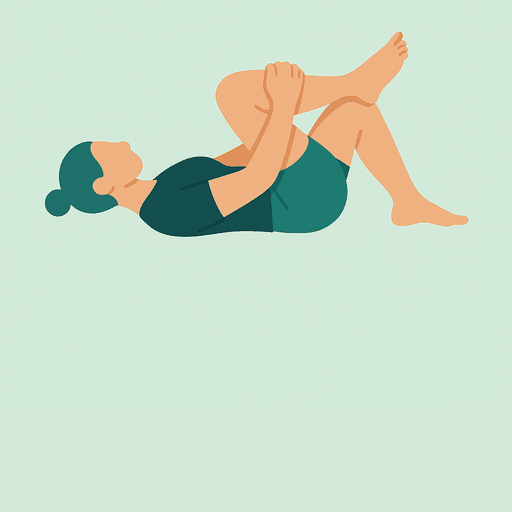
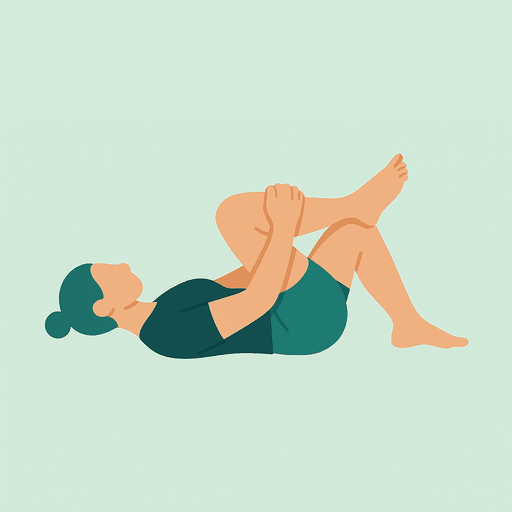
Update routines, center illustrations, fix SW update caching
- Extend Full Body 15 to 17 exercises (~15 min)
- Add Feierabend routine and random Zufallsmix (5 random exercises)
- Replace approx sign with ~ in duration labels
- Top-align exercise card content
- Vertically center motifs in 16 exercise illustrations
- Bypass HTTP cache on service worker install, bump cache to v16

Changed region(s): [[0.0625, 0.0625, 0.9375, 0.7188]]

diff --git a/assets/icons.js b/assets/icons.js
@@ -10,6 +10,8 @@ const ICONS = {
   leaf: `<svg class="icon" aria-hidden="true" xmlns="http://www.w3.org/2000/svg" viewBox="0 0 24 24" fill="none" stroke="currentColor" stroke-width="2" stroke-linecap="round" stroke-linejoin="round"><path d="M11 20A7 7 0 0 1 9.8 6.1C15.5 5 17 4.48 19 2c1 2 2 4.18 2 8 0 5.5-4.78 10-10 10Z"/><path d="M2 21c0-3 1.85-5.36 5.08-6C9.5 14.52 12 13 13 12"/></svg>`,
   expand: `<svg class="icon" aria-hidden="true" xmlns="http://www.w3.org/2000/svg" viewBox="0 0 24 24" fill="none" stroke="currentColor" stroke-width="2" stroke-linecap="round" stroke-linejoin="round"><path d="m15 15 6 6"/><path d="m15 9 6-6"/><path d="M21 16v5h-5"/><path d="M21 8V3h-5"/><path d="M3 16v5h5"/><path d="m3 21 6-6"/><path d="M3 8V3h5"/><path d="M9 9 3 3"/></svg>`,
   dumbbell: `<svg class="icon" aria-hidden="true" xmlns="http://www.w3.org/2000/svg" viewBox="0 0 24 24" fill="none" stroke="currentColor" stroke-width="2" stroke-linecap="round" stroke-linejoin="round"><path d="M17.596 12.768a2 2 0 1 0 2.829-2.829l-1.768-1.767a2 2 0 0 0 2.828-2.829l-2.828-2.828a2 2 0 0 0-2.829 2.828l-1.767-1.768a2 2 0 1 0-2.829 2.829z"/><path d="m2.5 21.5 1.4-1.4"/><path d="m20.1 3.9 1.4-1.4"/><path d="M5.343 21.485a2 2 0 1 0 2.829-2.828l1.767 1.768a2 2 0 1 0 2.829-2.829l-6.364-6.364a2 2 0 1 0-2.829 2.829l1.768 1.767a2 2 0 0 0-2.828 2.829z"/><path d="m9.6 14.4 4.8-4.8"/></svg>`,
+  moon: `<svg class="icon" aria-hidden="true" xmlns="http://www.w3.org/2000/svg" viewBox="0 0 24 24" fill="none" stroke="currentColor" stroke-width="2" stroke-linecap="round" stroke-linejoin="round"><path d="M12 3a6 6 0 0 0 9 9 9 9 0 1 1-9-9Z"/></svg>`,
+  shuffle: `<svg class="icon" aria-hidden="true" xmlns="http://www.w3.org/2000/svg" viewBox="0 0 24 24" fill="none" stroke="currentColor" stroke-width="2" stroke-linecap="round" stroke-linejoin="round"><path d="m18 14 4 4-4 4"/><path d="m18 2 4 4-4 4"/><path d="M2 18h1.973a4 4 0 0 0 3.3-1.7l5.454-8.6a4 4 0 0 1 3.3-1.7H22"/><path d="M2 6h1.972a4 4 0 0 1 3.6 2.2"/><path d="M22 18h-6.041a4 4 0 0 1-3.3-1.8l-.359-.45"/></svg>`,
   star: `<svg class="icon" aria-hidden="true" xmlns="http://www.w3.org/2000/svg" viewBox="0 0 24 24" fill="none" stroke="currentColor" stroke-width="2" stroke-linecap="round" stroke-linejoin="round"><path d="M11.525 2.295a.53.53 0 0 1 .95 0l2.31 4.679a2.123 2.123 0 0 0 1.595 1.16l5.166.756a.53.53 0 0 1 .294.904l-3.736 3.638a2.123 2.123 0 0 0-.611 1.878l.882 5.14a.53.53 0 0 1-.771.56l-4.618-2.428a2.122 2.122 0 0 0-1.973 0L6.396 21.01a.53.53 0 0 1-.77-.56l.881-5.139a2.122 2.122 0 0 0-.611-1.879L2.16 9.795a.53.53 0 0 1 .294-.906l5.165-.755a2.122 2.122 0 0 0 1.597-1.16z"/></svg>`,
   flame: `<svg class="icon" aria-hidden="true" xmlns="http://www.w3.org/2000/svg" viewBox="0 0 24 24" fill="none" stroke="currentColor" stroke-width="2" stroke-linecap="round" stroke-linejoin="round"><path d="M12 3q1 4 4 6.5t3 5.5a1 1 0 0 1-14 0 5 5 0 0 1 1-3 1 1 0 0 0 5 0c0-2-1.5-3-1.5-5q0-2 2.5-4"/></svg>`,
   sprout: `<svg class="icon" aria-hidden="true" xmlns="http://www.w3.org/2000/svg" viewBox="0 0 24 24" fill="none" stroke="currentColor" stroke-width="2" stroke-linecap="round" stroke-linejoin="round"><path d="M14 9.536V7a4 4 0 0 1 4-4h1.5a.5.5 0 0 1 .5.5V5a4 4 0 0 1-4 4 4 4 0 0 0-4 4c0 2 1 3 1 5a5 5 0 0 1-1 3"/><path d="M4 9a5 5 0 0 1 8 4 5 5 0 0 1-8-4"/><path d="M5 21h14"/></svg>`,

diff --git a/assets/app.js b/assets/app.js
@@ -112,8 +112,22 @@
 
   /* ===== Home rendern ===== */
   function routineDuration(routine) {
-    const steps = routine.items.reduce((n, id) => n + (exerciseById[id]?.sides ? 2 : 1), 0);
+    // Zufallsroutine: Übungen stehen noch nicht fest, mit ~1.5 Schritten
+    // pro Übung schätzen (Links/Rechts-Übungen zählen doppelt).
+    const steps = routine.random
+      ? Math.round(routine.random * 1.5)
+      : routine.items.reduce((n, id) => n + (exerciseById[id]?.sides ? 2 : 1), 0);
     return Math.round((steps * routine.secs) / 60);
+  }
+
+  /* n zufällige Übungs-IDs ziehen (Fisher-Yates) */
+  function randomExercises(n) {
+    const ids = EXERCISES.map((ex) => ex.id);
+    for (let i = ids.length - 1; i > 0; i--) {
+      const j = Math.floor(Math.random() * (i + 1));
+      [ids[i], ids[j]] = [ids[j], ids[i]];
+    }
+    return ids.slice(0, n);
   }
 
   function routineCard(routine, { deletable = false } = {}) {
@@ -123,8 +137,10 @@
       <span class="routine-icon">${ICONS[routine.icon] || ICONS.star}</span>
       <span class="card-title">${esc(routine.name)}</span>
       <span class="card-desc">${routine.blurb ? esc(routine.blurb) : `${routine.items.length} Übungen, selbst zusammengestellt.`}</span>
-      <span class="meta">≈ ${routineDuration(routine)} Min · ${routine.items.length} Übungen</span>`;
-    card.addEventListener('click', () => startRoutine(routine));
+      <span class="meta">~ ${routineDuration(routine)} Min · ${routine.random || routine.items.length} Übungen</span>`;
+    card.addEventListener('click', () => startRoutine(
+      routine.random ? { ...routine, items: randomExercises(routine.random) } : routine
+    ));
     if (!deletable) return card;
 
     // Löschen-Button als Geschwister, nicht als Kind des Karten-Buttons
@@ -499,7 +515,7 @@
     const steps = builderSelection.reduce((n, id) => n + (exerciseById[id]?.sides ? 2 : 1), 0);
     const mins = Math.round((steps * secs) / 60);
     $('#builder-summary').textContent = builderSelection.length
-      ? `${builderSelection.length} Übungen · ≈ ${mins} Min`
+      ? `${builderSelection.length} Übungen · ~ ${mins} Min`
       : 'Keine Übung ausgewählt';
     $('#btn-builder-save').disabled = builderSelection.length === 0;
   }

diff --git a/assets/data.js b/assets/data.js
@@ -72,7 +72,7 @@ const ROUTINES = [
     items: ['shoulder-roll', 'neck-side', 'neck-front', 'shoulder-cross', 'triceps', 'wrist', 'chest-opener', 'side-bend'] },
   { id: 'fullbody15', icon: 'personStanding', name: 'Full Body 15', secs: 35,
     blurb: 'Der Klassiker: einmal alles, in einer Viertelstunde.',
-    items: ['neck-side', 'shoulder-cross', 'chest-opener', 'cat-cow', 'down-dog', 'lunge', 'hamstring', 'quad', 'butterfly', 'seated-twist', 'child'] },
+    items: ['shoulder-roll', 'neck-side', 'shoulder-cross', 'chest-opener', 'side-bend', 'forward-fold', 'hamstring', 'quad', 'calf', 'lunge', 'cat-cow', 'down-dog', 'cobra', 'butterfly', 'seated-twist', 'supine-twist', 'child'] },
   { id: 'back', icon: 'leaf', name: 'Rücken-Reset', secs: 35,
     blurb: 'Länge und Entspannung für die Wirbelsäule.',
     items: ['cat-cow', 'child', 'cobra', 'down-dog', 'seated-twist', 'supine-twist', 'fig4', 'full-stretch'] },
@@ -82,4 +82,11 @@ const ROUTINES = [
   { id: 'runner', icon: 'dumbbell', name: 'Nach dem Sport', secs: 30,
     blurb: 'Beine & Waden nach Laufen, Rad oder Training.',
     items: ['quad', 'hamstring', 'calf', 'hip-flexor', 'fig4', 'forward-fold', 'child'] },
+  { id: 'evening', icon: 'moon', name: 'Feierabend', secs: 40,
+    blurb: 'Runterfahren nach dem Tag, ruhig Richtung Schlaf.',
+    items: ['forward-fold', 'child', 'cat-cow', 'supine-twist', 'fig4', 'butterfly', 'full-stretch'] },
+  /* random: statt fester items werden beim Start so viele zufällige Übungen gezogen */
+  { id: 'surprise', icon: 'shuffle', name: 'Zufallsmix', secs: 30, random: 5,
+    blurb: 'Kurz und knackig: fünf zufällige Übungen, jedes Mal anders.',
+    items: [] },
 ];

diff --git a/sw.js b/sw.js
@@ -1,5 +1,5 @@
 /* Stretch24 Service Worker – Cache-first, damit die App offline läuft */
-const CACHE = 'stretch24-v13';
+const CACHE = 'stretch24-v16';
 
 /* Kern-Assets: ohne sie startet die App nicht. */
 const CORE_ASSETS = [
@@ -49,10 +49,12 @@ const IMG_ASSETS = [
 self.addEventListener('install', (event) => {
   event.waitUntil(
     caches.open(CACHE).then(async (c) => {
-      await c.addAll(CORE_ASSETS);
+      // cache: 'reload' umgeht den HTTP-Cache des Browsers – sonst landen
+      // beim Update alte Dateistände im neuen Cache.
+      await c.addAll(CORE_ASSETS.map((url) => new Request(url, { cache: 'reload' })));
       // Bilder einzeln cachen: ein einzelner Fehlschlag verhindert die
       // Installation nicht (das Bild kommt dann zur Laufzeit in den Cache).
-      await Promise.allSettled(IMG_ASSETS.map((url) => c.add(url)));
+      await Promise.allSettled(IMG_ASSETS.map((url) => c.add(new Request(url, { cache: 'reload' }))));
     })
   );
   self.skipWaiting();

diff --git a/assets/style.css b/assets/style.css
@@ -183,6 +183,10 @@ h1, h2, h3 { line-height: 1.2; margin: 0 0 0.5rem; }
   gap: 0.75rem;
 }
 .exercise-card {
+  display: flex;
+  flex-direction: column;
+  align-items: center;
+  justify-content: flex-start;
   background: var(--surface);
   border: 1px solid var(--border);
   border-radius: var(--radius);
